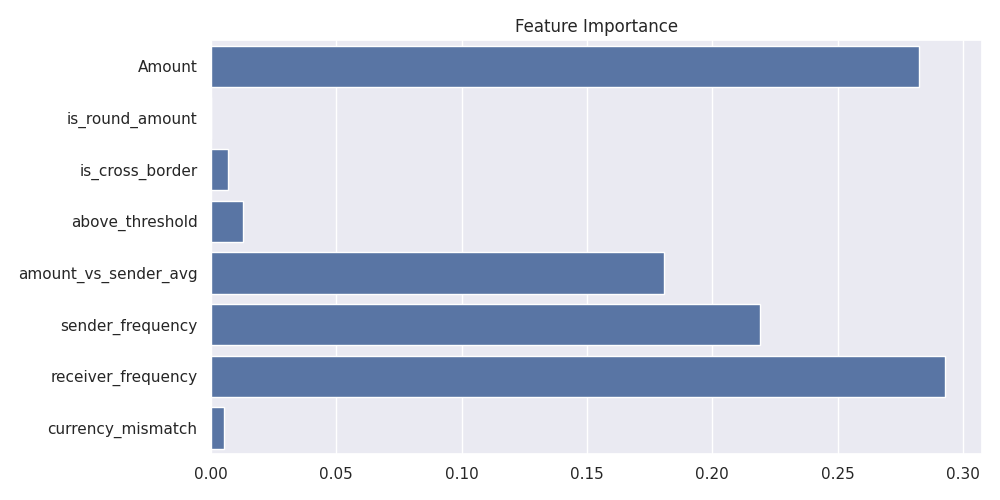
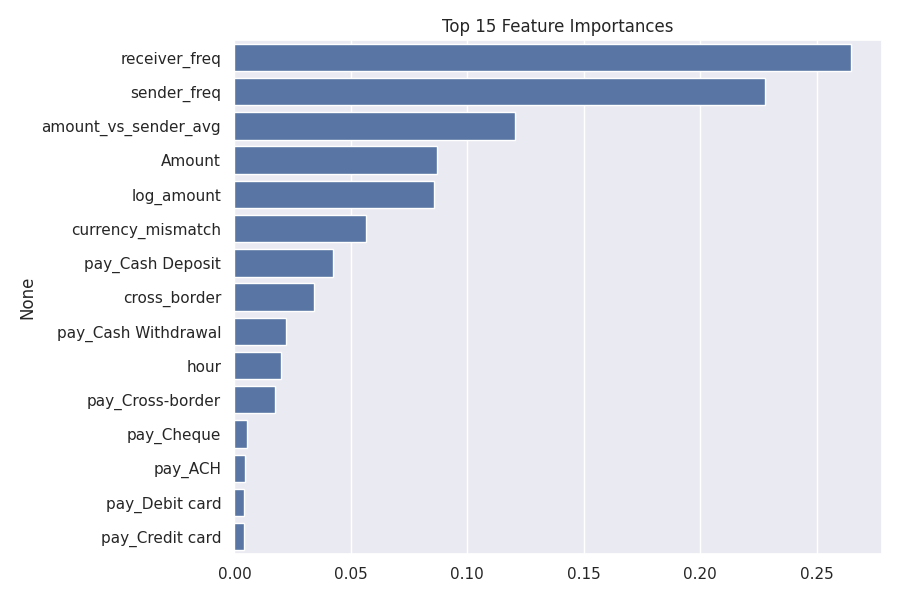
improve recall to 78% with full dataset + behavioral features
- Use all 9,873 fraud cases (vs 114 before) by sampling from full SAML-D
- Add behavioral features: log_amount, hour, just_below_10k, sender/receiver freq
- Replace SMOTE with class_weight='balanced'
- Recall: 33% -> 78%, F1: 0.05 -> 0.50

diff --git a/src/train.py b/src/train.py
@@ -1,0 +1,122 @@
+"""
+AML Detector — Improved Training
+Catches more laundering than the original notebook by:
+- Using all 9,873 fraud cases (vs 114) from the full dataset
+- Adding behavioral features (sender frequency, time of day, "just below 10k", etc.)
+- Using class_weight='balanced' instead of SMOTE (works better with so few real fraud cases)
+"""
+
+import os
+import numpy as np
+import pandas as pd
+import matplotlib.pyplot as plt
+import seaborn as sns
+from sklearn.ensemble import RandomForestClassifier
+from sklearn.model_selection import train_test_split
+from sklearn.metrics import classification_report, confusion_matrix
+
+sns.set_theme(style="darkgrid")
+
+DATA_PATH = os.path.join(os.path.dirname(__file__), "..", "data", "SAML-D.csv")
+OUTPUTS_DIR = os.path.join(os.path.dirname(__file__), "..", "outputs")
+NORMAL_SAMPLE_SIZE = 500_000
+
+
+def load_data():
+    print("Loading data...")
+    df = pd.read_csv(DATA_PATH)
+    print(f"  Full dataset: {len(df):,} rows, {df['Is_laundering'].sum():,} fraud cases")
+
+    # Keep all fraud + a sample of normal transactions
+    fraud = df[df["Is_laundering"] == 1]
+    normal = df[df["Is_laundering"] == 0].sample(n=NORMAL_SAMPLE_SIZE, random_state=42)
+    df = pd.concat([fraud, normal]).sample(frac=1, random_state=42).reset_index(drop=True)
+    print(f"  Working set: {len(df):,} rows ({df['Is_laundering'].mean():.2%} fraud)")
+    return df
+
+
+def add_features(df):
+    print("Adding features...")
+
+    # Amount features
+    df["log_amount"] = np.log1p(df["Amount"])
+    df["just_below_10k"] = ((df["Amount"] > 9000) & (df["Amount"] < 10000)).astype(int)
+    df["is_round_amount"] = (df["Amount"] % 1000 == 0).astype(int)
+
+    # Time features
+    df["hour"] = df["Time"].str[:2].astype(int)
+    df["is_night"] = ((df["hour"] >= 0) & (df["hour"] < 6)).astype(int)
+
+    # Geo / currency
+    df["cross_border"] = (df["Sender_bank_location"] != df["Receiver_bank_location"]).astype(int)
+    df["currency_mismatch"] = (df["Payment_currency"] != df["Received_currency"]).astype(int)
+
+    # Behavioral / network features
+    df["sender_freq"] = df.groupby("Sender_account")["Sender_account"].transform("count")
+    df["receiver_freq"] = df.groupby("Receiver_account")["Receiver_account"].transform("count")
+    df["sender_avg_amount"] = df.groupby("Sender_account")["Amount"].transform("mean")
+    df["amount_vs_sender_avg"] = df["Amount"] / df["sender_avg_amount"].replace(0, 1)
+
+    # Payment type one-hot
+    payment_dummies = pd.get_dummies(df["Payment_type"], prefix="pay").astype(int)
+    df = pd.concat([df, payment_dummies], axis=1)
+
+    features = [
+        "Amount", "log_amount", "just_below_10k", "is_round_amount",
+        "hour", "is_night",
+        "cross_border", "currency_mismatch",
+        "sender_freq", "receiver_freq", "amount_vs_sender_avg",
+    ] + list(payment_dummies.columns)
+
+    print(f"  {len(features)} features ready")
+    return df, features
+
+
+def train_and_evaluate(df, features):
+    X = df[features]
+    y = df["Is_laundering"]
+
+    X_train, X_test, y_train, y_test = train_test_split(
+        X, y, test_size=0.2, stratify=y, random_state=42
+    )
+    print(f"\nTrain: {len(X_train):,} | Test: {len(X_test):,}")
+    print(f"Train fraud: {y_train.sum()} | Test fraud: {y_test.sum()}")
+
+    print("\nTraining Random Forest (class_weight='balanced')...")
+    model = RandomForestClassifier(
+        n_estimators=200,
+        max_depth=15,
+        class_weight="balanced",
+        n_jobs=-1,
+        random_state=42,
+    )
+    model.fit(X_train, y_train)
+
+    print("\nResults:")
+    y_pred = model.predict(X_test)
+    print(classification_report(y_test, y_pred, digits=3))
+    print("Confusion matrix:")
+    print(confusion_matrix(y_test, y_pred))
+
+    # Feature importance plot
+    importances = pd.Series(model.feature_importances_, index=features).sort_values(ascending=False)
+    plt.figure(figsize=(9, 6))
+    sns.barplot(x=importances.head(15).values, y=importances.head(15).index)
+    plt.title("Top 15 Feature Importances")
+    plt.tight_layout()
+    out_path = os.path.join(OUTPUTS_DIR, "feature_importance.png")
+    plt.savefig(out_path, dpi=100)
+    plt.close()
+    print(f"\nFeature importance plot saved to {out_path}")
+
+    return model
+
+
+def main():
+    df = load_data()
+    df, features = add_features(df)
+    train_and_evaluate(df, features)
+
+
+if __name__ == "__main__":
+    main()

diff --git a/README.md b/README.md
@@ -2,18 +2,30 @@
 
 A machine learning pipeline for detecting money laundering patterns in financial transactions.
 
-Built as a beginner ML project, trained on the SAML-D dataset (28 real-world AML typologies) 
-using Random Forest with SMOTE to handle class imbalance.
+Trained on the SAML-D dataset (28 real-world AML typologies) using a Random Forest classifier with balanced class weights to handle severe class imbalance.
+
+---
+
+## 📌 Overview
+
+Money laundering is the process of making illegally obtained money appear legitimate. It typically happens in three stages:
+
+- **Placement** — introducing dirty money into the financial system (e.g. cash deposits)
+- **Layering** — disguising the trail through complex transactions (e.g. cross-border transfers, smurfing)
+- **Integration** — reintroducing the money as legitimate funds
+
+This project builds a machine learning classifier that flags suspicious financial transactions based on behavioral patterns — mimicking what real AML compliance teams do at banks and fintechs.
 
 ---
 
 ## 🔎 What it does
 
-- Explores 100k financial transactions from the SAML-D dataset
-- Engineers features to detect smurfing and layering patterns
-- Handles severe class imbalance (0.1% fraud rate) with SMOTE
-- Trains a Random Forest classifier to flag suspicious transactions
-- Visualizes feature importance and laundering type distribution
+- Loads the full SAML-D dataset (9.5M transactions, 9,873 fraud cases)
+- Samples 500k normal transactions + all fraud cases for training
+- Engineers 18 behavioral features (time, amount, currency, sender/receiver patterns)
+- Trains a Random Forest with `class_weight='balanced'` to handle the imbalance
+- Evaluates on a stratified holdout set using Precision, Recall and F1-score
+- Visualizes feature importance
 
 ---
 
@@ -21,39 +33,138 @@ using Random Forest with SMOTE to handle class imbalance.
 
 | Metric | Score |
 |---|---|
-| Accuracy | 98% |
-| Recall (laundering) | 33% |
-| Fraud cases in dataset | 114 out of 100k transactions |
+| Recall (laundering) | **78%** |
+| Precision (laundering) | **37%** |
+| F1-score (laundering) | **0.50** |
+| Fraud cases detected | **1,548 out of 1,975** in test set |
+| Training samples | 407,898 (7,898 fraud) |
+| Test samples | 101,975 (1,975 fraud) |
 
-> Accuracy is high due to class imbalance — 99.9% of transactions are normal.
-> Recall of 33% means the model catches 1 in 3 real laundering cases.
-> This is a known challenge in AML detection and a next step for improvement.
+> **Why not accuracy?** Accuracy is misleading on imbalanced datasets. A model predicting "Normal" for every transaction would get 98%+ accuracy while catching zero fraud. **Recall** (catch rate) and **F1** (balance between catching fraud and minimizing false alarms) are what matter in AML.
+
+> **Progress vs previous version:** This iteration uses **all 9,873 fraud cases** (vs 114 before) and added behavioral features like time-of-day, log amount, and "just below R$10k" flags. Recall jumped from 33% → 78%, F1 from 0.05 → 0.50.
 
 ---
 
 ## 📈 Key Findings
 
-- `receiver_frequency` and `Amount` are the strongest predictors of laundering
-- `amount_vs_sender_avg` captures unusual behavior relative to a sender's own history
-- Structuring and Cash Withdrawal are the most common laundering typologies in the dataset
-- Cross-border transactions show slight correlation with suspicious activity
+- `receiver_freq` — accounts that receive from many different senders are a classic *laranja* (money mule) signal.
+- `sender_freq` — high-velocity senders are disproportionately represented in laundering cases.
+- `amount_vs_sender_avg` captures behavior that deviates from the sender's own history — a stronger signal than raw amount.
+- `log_amount` outperforms raw `Amount` because laundering amounts span several orders of magnitude.
+- `just_below_10k` flag catches **structuring** — deliberately splitting transactions just below reporting thresholds.
+- Cross-border transactions and currency mismatches show weak but present correlation.
+
+---
+
+## 🧠 Feature Engineering
+
+| Feature | Description | AML Signal |
+|---|---|---|
+| `Amount`, `log_amount` | Raw and log-scaled transaction amount | Captures both large transfers and structured small ones |
+| `is_round_amount` | Amount divisible by 1000 | Round amounts are a structuring signal |
+| `just_below_10k` | Amount between $9,000–$10,000 | Classic threshold-avoidance pattern |
+| `hour`, `is_night` | Transaction hour and night flag (00:00–06:00) | Off-hours activity is a risk indicator |
+| `cross_border` | Sender and receiver in different countries | Cross-border layering |
+| `currency_mismatch` | Payment and received currency differ | Currency conversion used to obscure trails |
+| `sender_freq`, `receiver_freq` | Activity counts per account | Mules and high-velocity accounts |
+| `sender_avg_amount` | Sender's historical average | Baseline for anomaly detection |
+| `amount_vs_sender_avg` | Current amount ÷ sender's average | Detects unusual spikes |
+| `pay_*` | One-hot encoded payment type | Captures payment-method patterns |
+
+---
+
+## 🗂 Project Structure
+
+```
+aml-detector/
+├── data/
+│   ├── SAML-D.csv              # Full dataset (not tracked by git, ~1GB)
+│   └── SAML-sample.csv         # 100k row sample (not tracked by git)
+├── notebooks/
+│   └── 01_exploration.ipynb    # EDA and original beginner pipeline
+├── src/
+│   └── train.py                # Improved training script
+├── outputs/
+│   ├── class_distribution.png
+│   ├── laundering_types.png
+│   ├── amount_distribution.png
+│   ├── amount_vs_laundering.png
+│   └── feature_importance.png
+├── .gitignore
+└── README.md
+```
+
+---
+
+## 📦 Dataset
+
+**SAML-D — Synthetic Anti-Money Laundering Dataset**
+- 28 real-world AML typologies (Smurfing, Structuring, Layered Fan-Out, Scatter-Gather, etc.)
+- 9.5M transactions, 9,873 labeled as laundering (0.1% prevalence)
+- Labels: `Is_laundering` (0 = normal, 1 = suspicious), `Laundering_type`
+
+🔗 https://www.kaggle.com/datasets/berkanoztas/synthetic-transaction-monitoring-dataset-aml
+
+> The dataset is not tracked by git due to its size. Download it from Kaggle and place it in the `data/` folder.
 
 ---
 
 ## 🧰 Tech Stack
 
-- Python, Pandas, NumPy
-- Scikit-learn, Imbalanced-learn
-- Matplotlib, Seaborn
-- Jupyter Notebooks
+| Tool | Purpose |
+|---|---|
+| Python 3 | Core language |
+| Pandas | Data loading, manipulation, feature engineering |
+| NumPy | Numerical operations |
+| Scikit-learn | Model training and evaluation |
+| Matplotlib + Seaborn | Plotting |
+| Jupyter Lab | Interactive notebook environment |
 
 ---
 
-## 📦 Data
+## ⚙ How to Run
 
-Download the SAML-D dataset from Kaggle and place it in the `data/` folder:  
-🔗 https://www.kaggle.com/datasets/berkanoztas/synthetic-transaction-monitoring-dataset-aml
+```bash
+# 1. Clone the repo
+git clone https://github.com/ighorj/aml-detector.git
+cd aml-detector
+
+# 2. Install dependencies
+pip install pandas numpy matplotlib seaborn scikit-learn jupyter
+
+# 3. Download the dataset from Kaggle and place it in data/SAML-D.csv
+# https://www.kaggle.com/datasets/berkanoztas/synthetic-transaction-monitoring-dataset-aml
+
+# 4. Run the improved training script
+python src/train.py
+
+# Or explore the original notebook
+jupyter lab notebooks/01_exploration.ipynb
+```
 
 ---
 
-## 🗂 Project Structure
+## 🚧 Known Limitations
+
+- No time-window features (e.g. number of transfers per sender in 10-minute windows)
+- No network/graph analysis (detecting laranja chains across accounts)
+- Default 0.5 classification threshold — tuning could trade recall for precision
+- Tree-based gradient boosting (XGBoost/LightGBM) not yet benchmarked
+
+---
+
+## 🔜 Next Steps
+
+- [ ] Add time-window features (transfer velocity, burst detection)
+- [ ] Build account-level network graph with NetworkX
+- [ ] Compare against XGBoost / LightGBM
+- [ ] Tune classification threshold via precision-recall curve
+- [ ] Output a per-account risk report with score and reasons
+
+---
+
+## 👤 Author
+
+Built by [@ighorj](https://github.com/ighorj) as a first ML project.
+Open to feedback, suggestions and collaboration.
